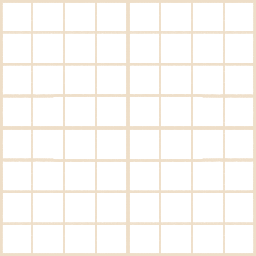
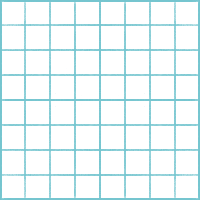
blog page header complete. add graph and custom paper pattern

Changed region(s): [[0.0, 0.0, 1.0, 1.0]]

diff --git a/_site/public/css/blog/index.css b/_site/public/css/blog/index.css
@@ -1,30 +1,39 @@
+:root {
+  --gray-3: #F7E5CB;
+  --gray-2: #74C5CF;
+}
 body {
   >div {
+    padding: 0;
     header {
-      background-color: var(--gray-2); position: relative;
+      background-image: url("/public/img/blog/blue.webp");
+      position: relative;
       >div {
-        border: 2px solid var(--white); border-left: 0;
-        background-color: var(--gray-2);
+        background-image: url("/public/img/blog/blue.webp");
+        border: 2px solid var(--gray-3); border-left: 0;
         padding: 1rem 2rem 1.5rem 0; margin: 3rem 0;
-        display: inline-block; color: var(--white);
+        display: inline-block; color: var(--gray-3);
         position: relative; z-index: 1;
         h1 {
-          padding: 0 0 0 3rem; font-size: 3rem;
-          border-bottom: 2px solid var(--white);
+          padding: 0 0 0 3rem; font-size: 3.5rem;
+          color: var(--gray-2);
+          border-bottom: 2px solid var(--gray-2);
         }
         p { padding: 0.25rem 0 0 3rem; }
       }
       &::before {
         content: ''; width: 30%; height: 100%;
         display: block; position: absolute; right: 0;
-        border-left: 1px solid var(--gray-2);
-        background-image: url("../../img/blog/graph.webp");
-        background-size: 10rem;
+        border-left: 2px solid var(--gray-2);
+        background-image: url("/public/img/blog/graph.webp");
+        background-size: 8rem;
         background-position-y: -0.5rem;
       }
     }
     main {
-      padding: 0 1rem;
+      padding: 0 1rem 2rem 1rem;
+      background-image: url("/public/img/blog/graph.webp");
+      background-position: -.5rem -.5rem; background-size: 5rem;
     }
   }
 }
@@ -33,31 +42,41 @@ body {
   body>div>header {
     div {
       padding: 0.25rem 1rem 0.5rem 0; margin: 2rem 1rem 2rem 0;
-      h1 {font-size: 2.5rem; padding: 0 0 0 1rem;}
+      h1 {font-size: 3rem; padding: 0 0 0 1rem;}
       p {padding: 0.25rem 0 0 1rem;}
     }
-    &::before { width: 25%; }
+    &::before { width: 25%; background-size: 6rem; }
   }
 }
 
 /* Tablet view */
 @media screen and (min-width: 40rem) {
-  body>div>header {
-    div {
-      margin: 4rem 0; padding-right: 2rem;
-      h1 {font-size: 4rem; padding-left: 4rem}
-      p { padding: 1rem 0 0 4rem;}
+  body>div {
+    header {
+      div {
+        margin: 4rem 0; padding-right: 2rem;
+        h1 {font-size: 4rem; padding-left: 6rem}
+        p { padding: 1rem 0 0 6rem;}
+      }
+    }
+    main {
+      padding: 0 10% 2rem 10%;
     }
   }
 }
 
 /* Desktop view */
 @media screen and (min-width: 67rem) {
-  body>div>header {
-    div {
-      padding-right: 3rem;
-      h1 {font-size: 5rem; padding-left: 5rem;}
-      p { padding-left: 5rem;}
+  body>div {
+    header {
+      div {
+        padding-right: 3rem;
+        h1 {font-size: 5rem; padding-left: 10rem;}
+        p { padding-left: 10rem;}
+      }
+    }
+    main {
+      padding: 0 20% 2rem 20%;
     }
   }
 }

diff --git a/public/css/blog/index.css b/public/css/blog/index.css
@@ -1,30 +1,39 @@
+:root {
+  --gray-3: #F7E5CB;
+  --gray-2: #74C5CF;
+}
 body {
   >div {
+    padding: 0;
     header {
-      background-color: var(--gray-2); position: relative;
+      background-image: url("/public/img/blog/blue.webp");
+      position: relative;
       >div {
-        border: 2px solid var(--white); border-left: 0;
-        background-color: var(--gray-2);
+        background-image: url("/public/img/blog/blue.webp");
+        border: 2px solid var(--gray-3); border-left: 0;
         padding: 1rem 2rem 1.5rem 0; margin: 3rem 0;
-        display: inline-block; color: var(--white);
+        display: inline-block; color: var(--gray-3);
         position: relative; z-index: 1;
         h1 {
-          padding: 0 0 0 3rem; font-size: 3rem;
-          border-bottom: 2px solid var(--white);
+          padding: 0 0 0 3rem; font-size: 3.5rem;
+          color: var(--gray-2);
+          border-bottom: 2px solid var(--gray-2);
         }
         p { padding: 0.25rem 0 0 3rem; }
       }
       &::before {
         content: ''; width: 30%; height: 100%;
         display: block; position: absolute; right: 0;
-        border-left: 1px solid var(--gray-2);
-        background-image: url("../../img/blog/graph.webp");
-        background-size: 10rem;
+        border-left: 2px solid var(--gray-2);
+        background-image: url("/public/img/blog/graph.webp");
+        background-size: 8rem;
         background-position-y: -0.5rem;
       }
     }
     main {
-      padding: 0 1rem;
+      padding: 0 1rem 2rem 1rem;
+      background-image: url("/public/img/blog/graph.webp");
+      background-position: -.5rem -.5rem; background-size: 5rem;
     }
   }
 }
@@ -33,31 +42,41 @@ body {
   body>div>header {
     div {
       padding: 0.25rem 1rem 0.5rem 0; margin: 2rem 1rem 2rem 0;
-      h1 {font-size: 2.5rem; padding: 0 0 0 1rem;}
+      h1 {font-size: 3rem; padding: 0 0 0 1rem;}
       p {padding: 0.25rem 0 0 1rem;}
     }
-    &::before { width: 25%; }
+    &::before { width: 25%; background-size: 6rem; }
   }
 }
 
 /* Tablet view */
 @media screen and (min-width: 40rem) {
-  body>div>header {
-    div {
-      margin: 4rem 0; padding-right: 2rem;
-      h1 {font-size: 4rem; padding-left: 4rem}
-      p { padding: 1rem 0 0 4rem;}
+  body>div {
+    header {
+      div {
+        margin: 4rem 0; padding-right: 2rem;
+        h1 {font-size: 4rem; padding-left: 6rem}
+        p { padding: 1rem 0 0 6rem;}
+      }
+    }
+    main {
+      padding: 0 10% 2rem 10%;
     }
   }
 }
 
 /* Desktop view */
 @media screen and (min-width: 67rem) {
-  body>div>header {
-    div {
-      padding-right: 3rem;
-      h1 {font-size: 5rem; padding-left: 5rem;}
-      p { padding-left: 5rem;}
+  body>div {
+    header {
+      div {
+        padding-right: 3rem;
+        h1 {font-size: 5rem; padding-left: 10rem;}
+        p { padding-left: 10rem;}
+      }
+    }
+    main {
+      padding: 0 20% 2rem 20%;
     }
   }
 }

diff --git a/content/blog/index.html b/content/blog/index.html
@@ -3,10 +3,14 @@ title: Blog
 layout: base.html
 style: blog/index.css
 ---
-<header><div>
-  <h1>The BLOG</h1>
-  <p>Public writing archive</p>
-</div></header>
+<header>
+  <div>
+    <h1>The BLOG</h1>
+    <p>Public writing archive</p>
+  </div>
+  <nav>
+  </nav>
+</header>
 
 <main>
   {% for year, zodiac in blog.index.years | dictsort | reverse %}

diff --git a/_site/blog/2026/1/post-test/index.html b/_site/blog/2026/1/post-test/index.html
@@ -13,7 +13,7 @@
     <div>
       <header>
         <h1>Post test</h1>
-        <h2>Fri Jan 16 2026 11:19:40 GMT-0600 (Central Standard Time)</h2>
+        <h2>Fri Jan 16 2026 11:21:21 GMT-0600 (Central Standard Time)</h2>
       </header>
       <main>
         <p>Hello world?</p>

diff --git a/_site/blog/index.html b/_site/blog/index.html
@@ -15,10 +15,14 @@
 
   <body>
     <div>
-      <header><div>
-  <h1>The BLOG</h1>
-  <p>Public writing archive</p>
-</div></header>
+      <header>
+  <div>
+    <h1>The BLOG</h1>
+    <p>Public writing archive</p>
+  </div>
+  <nav>
+  </nav>
+</header>
 
 <main>
   
